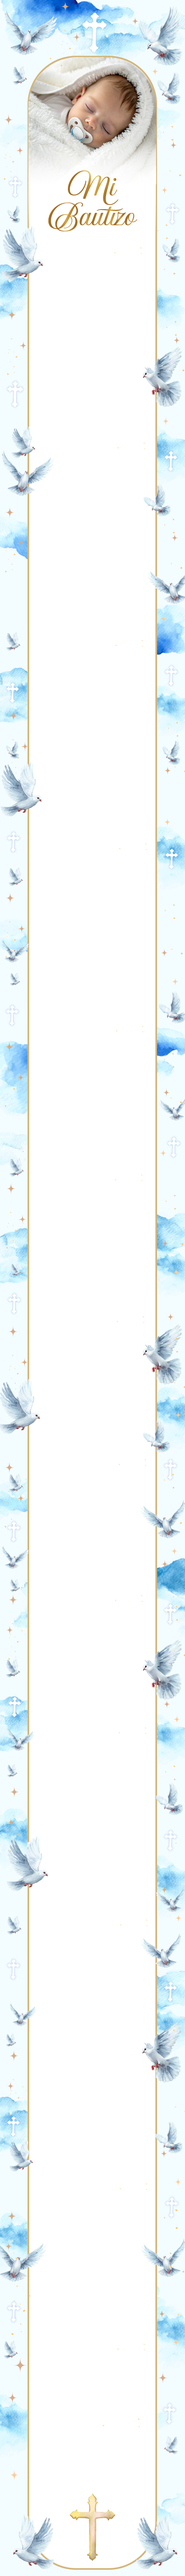
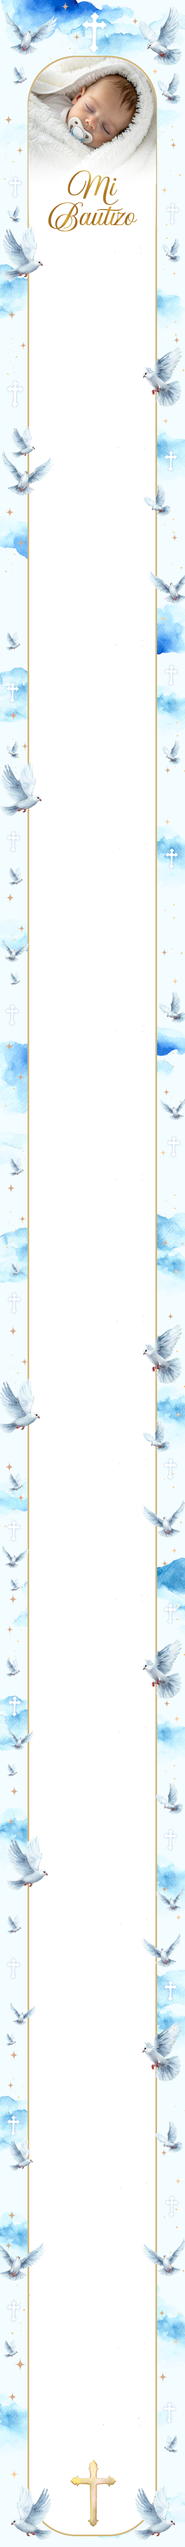
alas_De_FE_cambio

diff --git a/demo_invitaciones/Bautizos/alas_De_fe_nino/invitacion.html b/demo_invitaciones/Bautizos/alas_De_fe_nino/invitacion.html
@@ -39,11 +39,11 @@
         background-image: url('img/fondo.png'); /* Ruta de tu imagen */
 		background-position: top center;
         background-repeat: no-repeat; /* Evita que se repita */
-        background-size: 450px 6309px; /* Tamaño exacto */
+        background-size: 450px 6165px; /* Tamaño exacto */
         background-position: top center; /* Centrado en la parte superior */
         width: 100%;
         max-width: 450px; /* Ancho máximo */
-        min-height: 6309px; /* Altura mínima */
+        min-height: 6165px; /* Altura mínima */
         margin: 0 auto;
         animation: slideIn 1.5s ease-out;
         position: relative;
@@ -1108,7 +1108,7 @@ Te esperamos con los brazos abiertos.</p>
         <svg class="whatsapp-icon-2" viewBox="0 0 24 24">
             <path d="M17.472 14.382c-.297-.149-1.758-.867-2.03-.967-.273-.099-.471-.148-.67.15-.197.297-.767.966-.94 1.164-.173.199-.347.223-.644.075-.297-.15-1.255-.463-2.39-1.475-.883-.788-1.48-1.761-1.653-2.059-.173-.297-.018-.458.13-.606.134-.133.298-.347.446-.52.149-.174.198-.298.298-.497.099-.198.05-.371-.025-.52-.075-.149-.669-1.612-.916-2.207-.242-.579-.487-.5-.669-.51-.173-.008-.371-.01-.57-.01-.198 0-.52.074-.792.372-.272.297-1.04 1.016-1.04 2.479 0 1.462 1.065 2.875 1.213 3.074.149.198 2.096 3.2 5.077 4.487.709.306 1.262.489 1.694.625.712.227 1.36.195 1.871.118.571-.085 1.758-.719 2.006-1.413.248-.694.248-1.289.173-1.413-.074-.124-.272-.198-.57-.347m-5.421 7.403h-.004a9.87 9.87 0 01-5.031-1.378l-.361-.214-3.741.982.998-3.648-.235-.374a9.86 9.86 0 01-1.51-5.26c.001-5.45 4.436-9.884 9.888-9.884 2.64 0 5.122 1.03 6.988 2.898a9.825 9.825 0 012.893 6.994c-.003 5.45-4.437 9.884-9.885 9.884m8.413-18.297A11.815 11.815 0 0012.05 0C5.495 0 .16 5.335.157 11.892c0 2.096.547 4.142 1.588 5.945L.057 24l6.305-1.654a11.882 11.882 0 005.683 1.448h.005c6.554 0 11.89-5.335 11.893-11.893A11.821 11.821 0 0020.885 3.488"/>
         </svg>
-        ¡COMPRAR!
+        ¡COMPRAR AHORA!
     </a>
     </div>
 	
